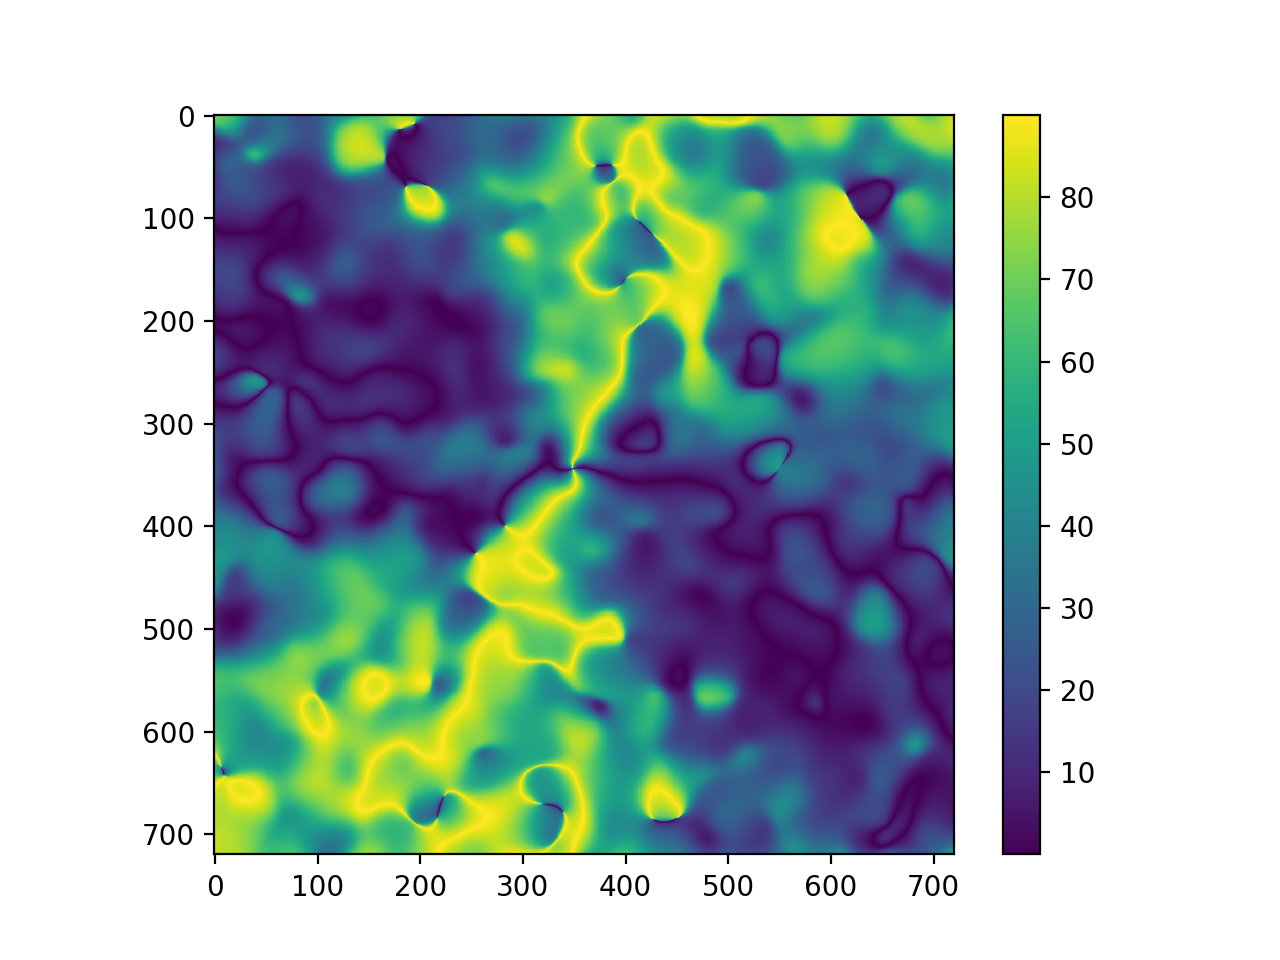
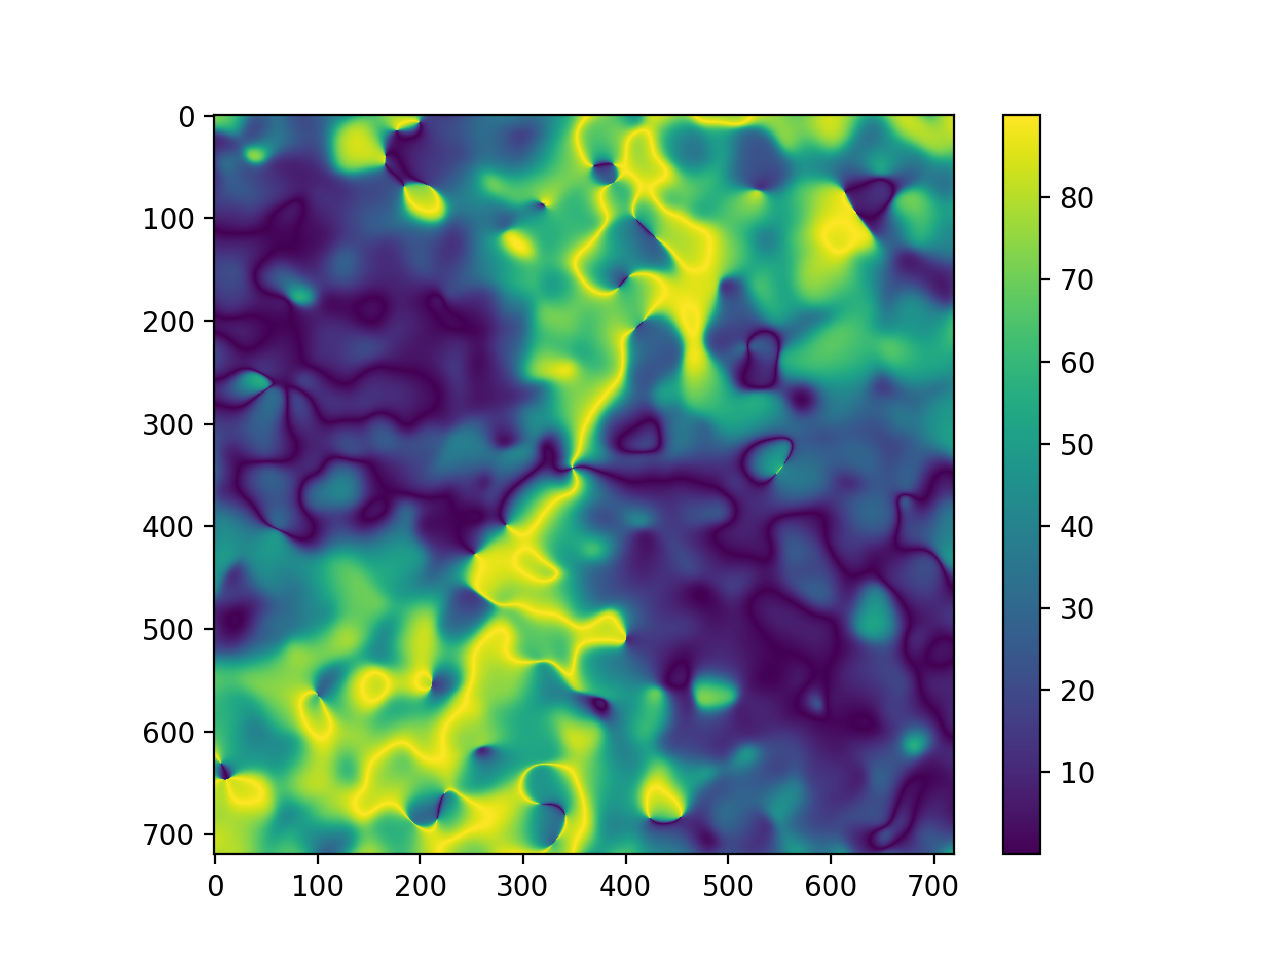
Added Distance Shell Analysis
Evaluate Intensity and Orientation also within distance shells

diff --git a/cell_compaction_analysis.py b/cell_compaction_analysis.py
@@ -1,13 +1,13 @@
 """
 Created on Wed Jul  1 15:45:34 2020
 
-@author: david + andi
+@author: david boehringer + andreas bauer
 
 Evaluates the fiber orientation around cells that compact collagen tissue.
-Applying the Structure tensor and evaluates the orientation within 
-angle sections around the segmented cell center.
+Evaluates the orientation of collagen fibers towards the segmented cell center 
+by using the structure tensor (globally / in angle sections / within distance shells).
 
-Needs an Image of cell and one image of the fibers
+Needs an Image of the cell and one image of the fibers (e.g. maximum projection of small stack)
 
 """
 
@@ -32,6 +32,8 @@ from PIL import Image
 from copy import copy
 import imageio
 from skimage import color
+from scipy.ndimage.morphology import distance_transform_edt
+#import skfmm    #      pip install scikit-fmm
 
 def set_vmin_vmax(x, vmin, vmax):
     if not isinstance(vmin, (float, int)):
@@ -187,13 +189,13 @@ cell_list = glob.glob(r"test_data\cell.tif")   #check that order is same to fibe
 
 
 # Set Parameters 
-sigma_tensor = 15  # sigma of applied gauss filter / window for structure tensor analysis in px
+sigma_tensor = 14  # sigma of applied gauss filter / window for structure tensor analysis in px
                     # should be in the order of the objects to analyze !! test
 edge = 40   # Cutt of pixels at the edge since values at the border cannot be trusted
 segmention_thres =1  # for cell segemetntion, thres 1 equals normal otsu threshold
 sigma_first_blur  = 0.5  # slight first bluring of whole image before using structure tensor
 angle_sections = 5   # size of angle sections in degree 
-
+shell_width = 14   # pixel width of distance shells
 
 
 # create output folder accordingly
@@ -220,10 +222,15 @@ for n,i in tqdm(enumerate(fiber_list)):
     im_cell_n = normalize(im_cell, norm1, norm2)
     im_fiber_n = normalize(im_fiber, norm1, norm2)  
     im_fiber_g = gaussian(im_fiber_n, sigma=sigma_first_blur)     # blur fiber image slightly (test with local gauss - similar)
+    
     # segment cell
     segmention = segment_cell(im_cell_n, thres= segmention_thres ) # thres 1 equals normal otsu threshold
     center_small = (segmention["centroid"][0]-edge,segmention["centroid"][1]-edge)
-
+    
+    # Maybe ToDo : set segmention to nan for effects close to cell -maybe not since more problems ..
+    #im_fiber_g[segmention["mask"]] = np.nan
+    #plt.imshow(im_fiber_g)
+    
     """
     Structure tensor
     """
@@ -231,20 +238,26 @@ for n,i in tqdm(enumerate(fiber_list)):
 
     # get structure tensor
     ori, max_evec, min_evec, max_eval, min_eval = analyze_local(im_fiber_g, sigma=sigma_tensor, size=0, filter_type="gaussian")
+    # cut off edges as specified
     ori, max_evec, min_evec, max_eval, min_eval = ori[edge:-edge,edge:-edge], max_evec[edge:-edge,edge:-edge], min_evec[edge:-edge,edge:-edge], \
                                                   max_eval[edge:-edge,edge:-edge], min_eval[edge:-edge,edge:-edge]
     """
     coordinates
     """
     
-    # Calculate Angle + Distances
+    # Calculate Angle + Distances 
     y,x = np.indices(ori.shape)
     dx = x - center_small[0]
     dy = y - center_small[1]
-    distance = np.sqrt(dx ** 2 + dy ** 2)
+    distance = np.sqrt(dx ** 2 + dy ** 2)  # dist to center
     angle = np.arctan2(dy, dx) *360/(2*np.pi)
     dx_norm = (dx/distance)
     dy_norm = (dy/distance)
+    dist_surface = distance_transform_edt(~segmention["mask"])[edge:-edge,edge:-edge] # dist to surface
+
+    
+   
+    
     
     """
     total image analysis
@@ -253,7 +266,7 @@ for n,i in tqdm(enumerate(fiber_list)):
     # Angular deviation from orietation to center vector
     angle_dev = np.arccos(np.abs(dx_norm * min_evec[:,:,0] + dy_norm*min_evec[:,:,1])) * 360/(2*np.pi)
     # weighting by coherence
-    angle_dev_weighted = (angle_dev * ori) / np.mean(ori)     # !!!! WRONG ?
+    angle_dev_weighted = (angle_dev * ori) / np.mean(ori)     # no angle values anymore but the mean later is again an angle
     # weighting by coherence and image intensity
     im_fiber_g = im_fiber_g[edge:-edge,edge:-edge]
     # could also use non filtered image
@@ -331,7 +344,64 @@ for n,i in tqdm(enumerate(fiber_list)):
     angle_plotting[angle_plotting1 < 0] =  np.abs(angle_plotting[angle_plotting1 < 0])
     angle_plotting[angle_plotting1 > 0] =  np.abs(angle_plotting[angle_plotting1>0] - 2* np.pi)
 
+    """
+    Distance Evaluation
+    """
 
+    shells = np.arange(0, dist_surface.max(), shell_width)
+    midofshells = (shells + shell_width/2)[:-1]
+    allshellmasks = []
+    dist_int = []
+    dist_angle = []
+    
+    # make the distance shell analysis
+    for i in range(len(shells)-1):
+        # mask of individual shells and accumulation of all points closer to the correponding cell
+        mask_shell = (dist_surface > (shells[i])) & (dist_surface <= (shells[i+1])) & (~segmention["mask"][edge:-edge,edge:-edge])  
+        mask_shell_lower=  (dist_surface <= (shells[i+1])) & (~segmention["mask"][edge:-edge,edge:-edge])
+        allshellmasks.append(mask_shell)
+        # calculate mintensity and angle deviation within the growing shells (always within start shell to highest shell)
+        dist_angle.append(np.mean(angle_dev[mask_shell_lower])  )
+        # MAYBE TODO:  weight by coherency+Intensity   within shell instead of the pure angle ?
+        # mean intensity
+        dist_int.append(np.mean(im_fiber_g[mask_shell_lower]))
+     
+        
+        
+    # norm intensities   
+    dist_int = np.array(dist_int)/ np.max(np.array(dist_int))    
+    # Calculate value where ntensity drops 10%
+    distintdrop = np.abs(dist_int-0.9)
+    # distance where it drops   
+    halflife_int =  midofshells[np.where(distintdrop == np.nanmin(distintdrop.min()))] [0] 
+    # if decrease is not within range (minimum equals last value) then set to nan
+    if halflife_int == midofshells[-1]:
+        halflife_int = np.nan
+  
+    
+    # # Calculate value where orientation drops to 10% within maxorientation(min) to 45° (random) range 
+    # difference to 45 degree instead of min-max range    
+    # calculate halflife of maximal orientation over distance
+    # difference to 45 degree for all
+    diffdist = np.abs(np.array(dist_angle)-45)  
+    # maximal orientation
+    diffmax = np.max(diffdist)
+    diffmax_pos = np.where(diffmax==diffdist)[0][0]
+    # difference to the half of maximal orientation  TODO Maybe use 2/3
+    diff2 = np.abs(diffdist-(0.9*diffmax))
+    diff2[:diffmax_pos] = np.nan    # only look at distances on the right side /further out 
+    # half orientation    
+    halflife_ori =  midofshells[np.where(diff2 == np.nanmin(diff2))]     
+    
+    # save distane arrays
+    np.savetxt(os.path.join(out_list[n],"shells-mid_px.txt"), midofshells)
+    np.savetxt(os.path.join(out_list[n],"dist_int.txt"), dist_int)
+    np.savetxt(os.path.join(out_list[n],"dist_angle.txt"), dist_angle)
+    np.savetxt(os.path.join(out_list[n],"distdrop10_ori_px.txt"), [halflife_ori])
+    np.savetxt(os.path.join(out_list[n],"distdrop10_int_px.txt"), [halflife_int])   
+    
+
+    
     """
     save plots here
     """
@@ -371,13 +441,16 @@ for n,i in tqdm(enumerate(fiber_list)):
     # ax.plot((np.array(ori_angle) * np.pi / 180), b, label="ori_angle directly")
     # plt.legend()
     # plt.title("illustration of how angles in the polar plot work")
+    
+    
+    
 
 
     plt.figure(figsize=(5,5))
     axs1 = plt.subplot(111, projection="polar")
     axs1.plot(angle_plotting, ori_mean_weight, label="Allignment Collagen" , linewidth=2, c = "C0")
     plt.savefig(os.path.join(out_list[n],"orientation_w.png"), dpi=200)
-    
+ 
     # Triple plot
     plt.figure(figsize=(20,6))
     axs1 = plt.subplot(131, projection="polar")
@@ -441,5 +514,70 @@ for n,i in tqdm(enumerate(fiber_list)):
     plt.scatter(center_small[0],center_small[1], c= "w")
     plt.tight_layout()
     plt.savefig(os.path.join(out_list[n],"struc-tens-o.png"), dpi=200)
+    
+    
+    # plot shells
+    plt.figure()
+    cmap_list = ["Greens","Greys","Reds","Oranges","Blues","PuBu","GnBu"]
+    for s in  range(len(allshellmasks)):
+        my_norm = matplotlib.colors.Normalize(vmin=0.99, vmax=1, clip=False)  
+        cmap =  copy(plt.get_cmap(cmap_list[s%len(cmap_list)]))
+        # everything under vmin gets transparent (all zeros in mask)
+        cmap.set_under('k', alpha=1)
+        #everything else visible
+        cmap.set_over('k', alpha=0)
+        # plot mask and center
+        plt.imshow(allshellmasks[-s], cmap = cmap ,  origin="upper", alpha= 0.2 ) #- 0.2* s/len(allshellmasks) )
+    plt.savefig(os.path.join(out_list[n],"shells.png"), dpi=200)   
+        
+     # plot distance shell analysis    
+    plt.figure(figsize=(7,3))
+    plt.subplot(121)    
+    plt.plot(midofshells,dist_angle,"o-", c="lightgreen",label="orientation")
+    plt.plot([halflife_ori,halflife_ori],[np.min(dist_angle),np.max(dist_angle)], c="orange", linestyle="--")
+    plt.grid()
+    plt.tight_layout()
+    plt.xlabel("distance (px)")
+    plt.ylabel("orientation")
+    plt.subplot(122)    
+    plt.plot(midofshells,dist_int,"o-", c="plum", label="intensity")
+    plt.grid()
+    plt.plot([halflife_int,halflife_int],[np.min(dist_int),np.max(dist_int)], c="orange", linestyle="--")
+    plt.xlabel("distance (px)")
+    plt.ylabel("intensity")
+    plt.tight_layout()
+    plt.show()
+   
+    
+     # plot overlay version 2
+    my_norm = matplotlib.colors.Normalize(vmin=0.99, vmax=1, clip=False)  
+    cmap =  copy(plt.get_cmap('Greys'))
+    # everything under vmin gets transparent (all zeros in mask)
+    cmap.set_under('k', alpha=0)
+    #everything else visible
+    cmap.set_over('k', alpha=1)
+    # plot mask and center
+    show_quiver (min_evec[:,:,0] * ori, min_evec[:,:,1] * ori, filter=[0, 8],alpha=0 , scale_ratio=0.1,width=0.0012, plot_cbar=False, cbar_str="coherency", cmap="viridis")
+    plt.imshow(normalize(im_fiber_n[edge:-edge,edge:-edge]), origin="upper")
+    plt.imshow(segmention["mask"][edge:-edge,edge:-edge], cmap=cmap, norm = my_norm, origin="upper")
+    center_small = (segmention["centroid"][0]-edge,segmention["centroid"][1]-edge)
+    plt.scatter(center_small[0],center_small[1], c= "w")
+    plt.tight_layout()
+    plt.savefig(os.path.join(out_list[n],"struc-tens-o2.png"), dpi=200)
+    
+    # fig7= plt.figure() 
+    # my_norm = matplotlib.colors.Normalize(vmin=0.99, vmax=1, clip=False)  
+    # cmap =  copy(plt.get_cmap('Greys'))
+    # # everything under vmin gets transparent (all zeros in mask)
+    # cmap.set_under('k', alpha=0)
+    # #everything else visible
+    # cmap.set_over('k', alpha=1)
+    # # plot mask and center
+    # plt.subplot(121)
+    # plt.imshow(dist_surface, cmap=cmap, norm = my_norm, origin="upper")
+    # plt.subplot(122)
+    # plt.imshow(normalize(im_fiber_n[edge:-edge,edge:-edge]), origin="upper")
+    
+    
     
     plt.close("all")
